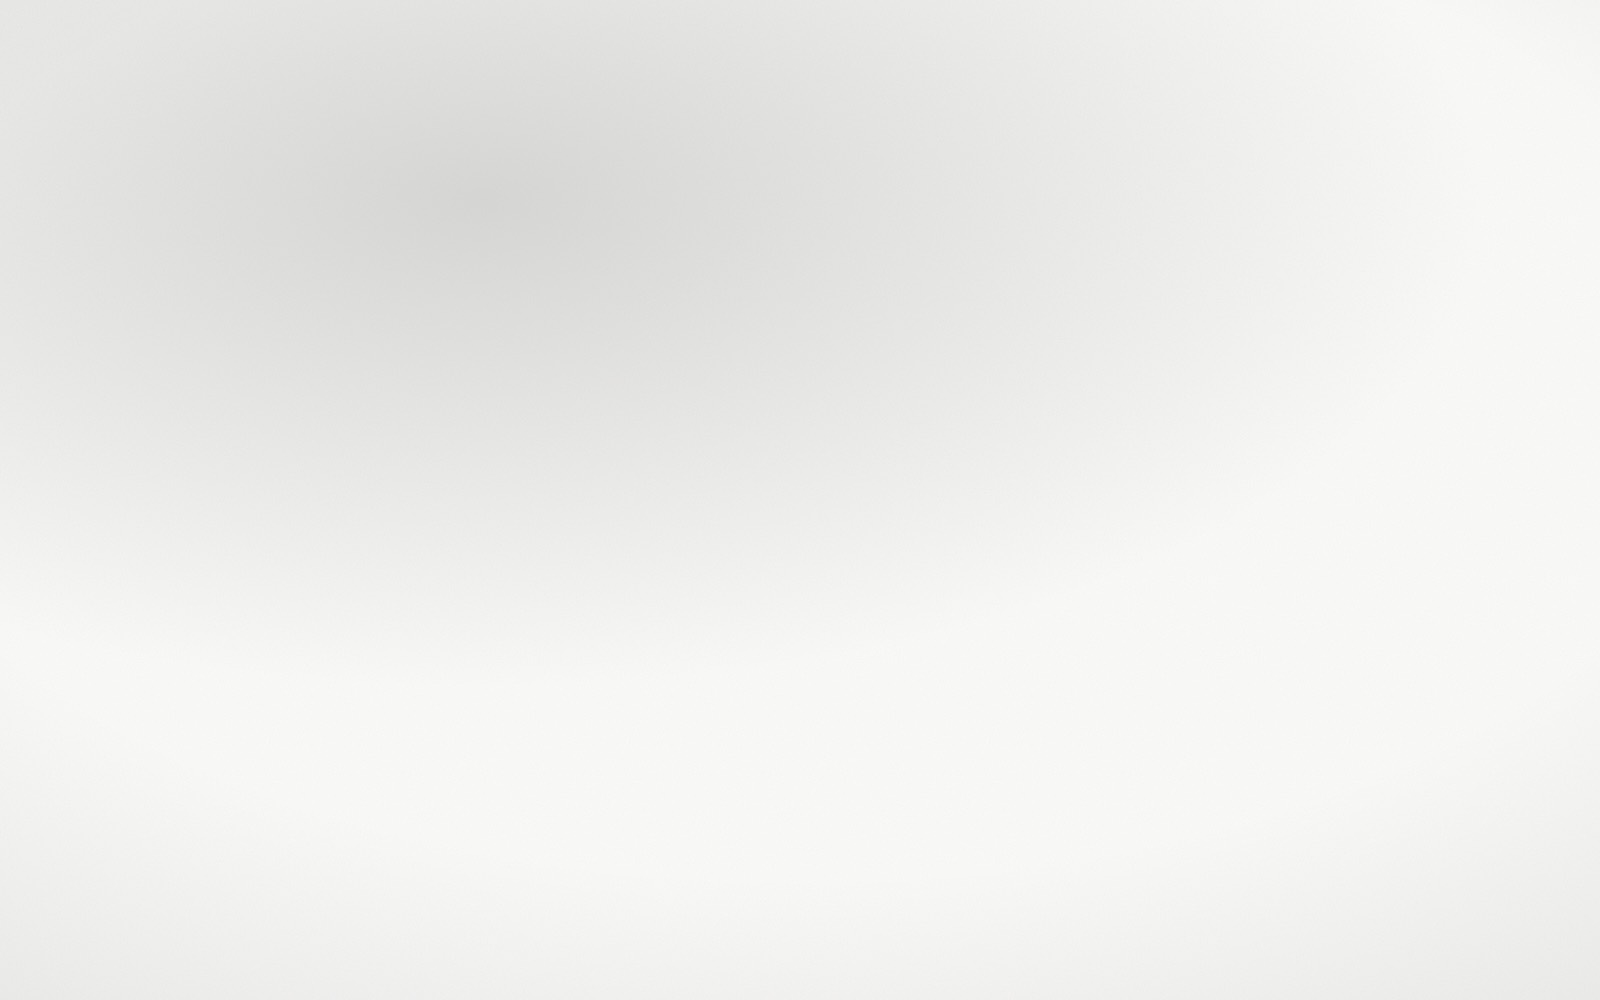
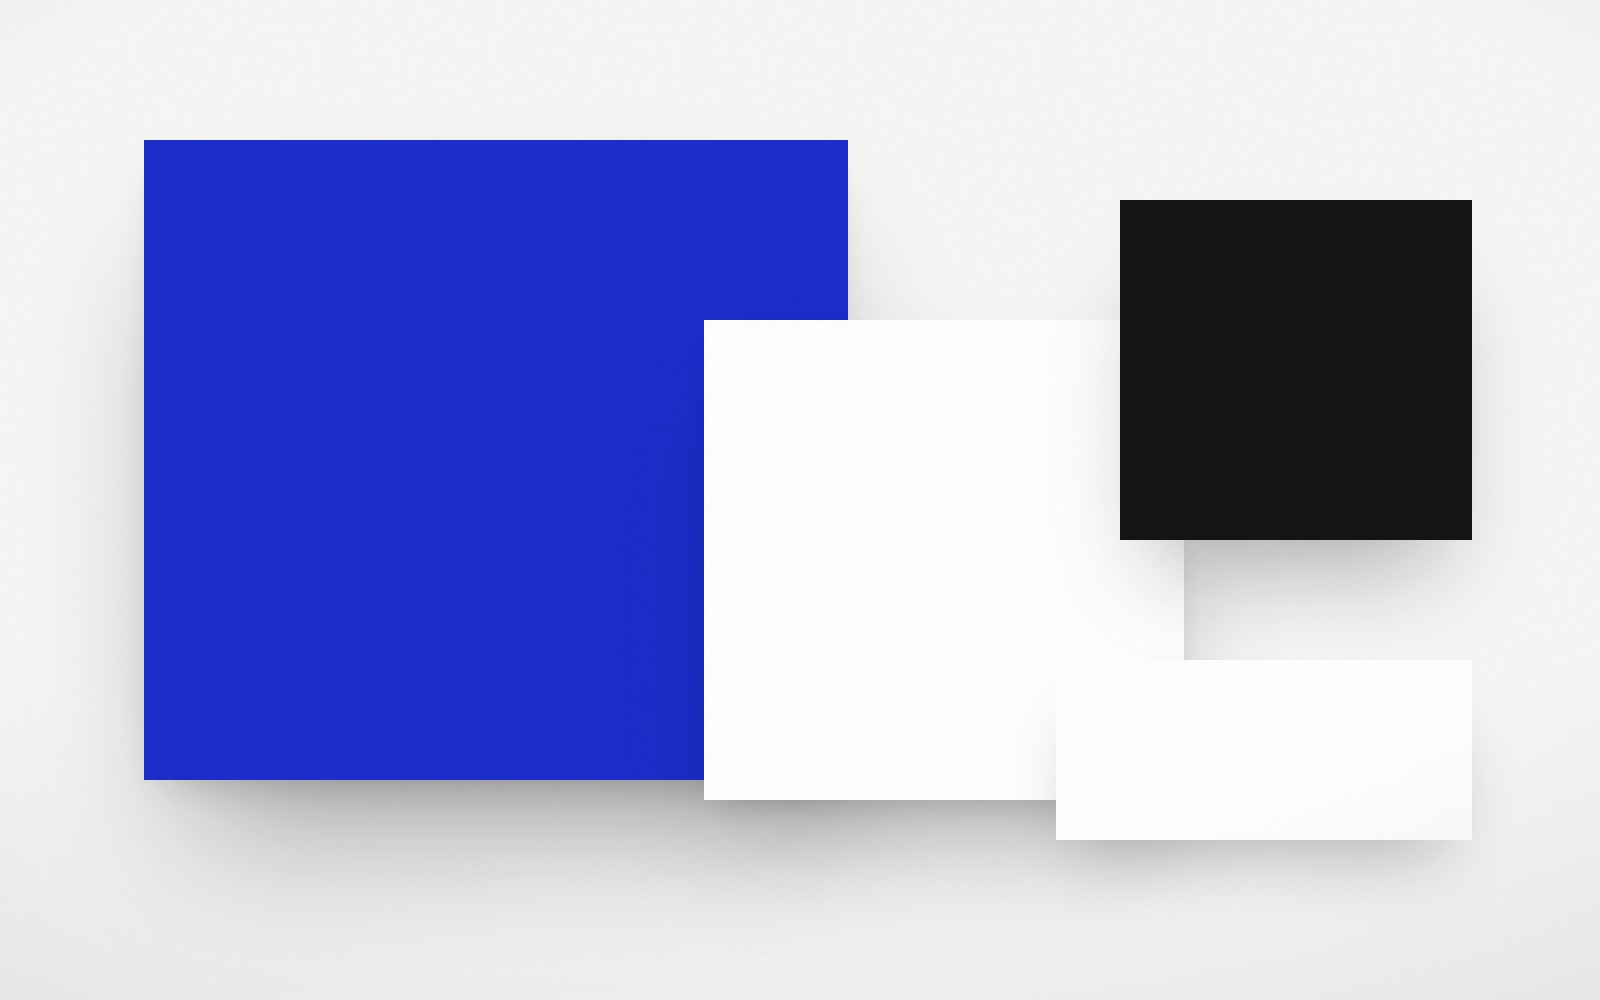
Direction C — long shadow
Near-white ground, deep ink blue, and a soft large real shadow as the
signature element: Work cards become white objects with weight rather
than regions divided by a rule, and they deepen on hover.

Instrument Serif for display, Inter for body, JetBrains Mono for
metadata. Instrument Serif ships a single weight, which keeps the
one-weight rule honest by construction.

The eyebrow label sits in a hairline pill; the ruled ornament is dropped.
Media scales 1.04 -> 1.0 on entry instead of rising.

diff --git a/app/globals.css b/app/globals.css
@@ -10,36 +10,37 @@
    direction-a/b/c replace the values, never the token names.
    ============================================================ */
 :root {
-  --paper: #FAFAF8;
-  --ink: #111110;
-  --accent: #3A3A37;
-  /* Text-safe cut of the accent. The accent proper is for rules, fills and
-     borders; anything that colors actual words uses this and has to clear
-     4.5:1 against --paper. B's acid green never colors text, so B points
-     this straight back at its ink. */
-  --accent-ink: #3A3A37;
+  /* Direction C — "Long shadow".
+     Near-white ground, deep ink blue, and a soft large real shadow as the
+     signature: cards and media get physical weight on the page. The known
+     risk is that a display serif is a strong flavour and will date faster
+     than A or B. */
+  --paper: #F7F7F5;
+  --ink: #141414;
+  --accent: #1B2ECC;
+  --accent-ink: #1B2ECC;      /* 8.6:1 on the paper — safe on text as well as rules */
 
-  /* Work cards sit on the ground by default. C gives them a surface. */
-  --card-bg: transparent;
-  --card-pad: 0px;
+  /* Cards are objects here, not regions of the ground. */
+  --card-bg: #FFFFFF;
+  --card-pad: clamp(24px, 4vw, 56px);
 
-  /* Faces come from next/font in app/fonts.ts. A fork swaps the
-     imports there and leaves these aliases alone. */
-  --font-display: var(--font-face-display), ui-sans-serif, system-ui, sans-serif;
+  /* Instrument Serif display, Inter body, JetBrains Mono metadata.
+     Registered in app/fonts.ts. */
+  --font-display: var(--font-face-display), ui-serif, Georgia, serif;
   --font-body: var(--font-face-body), ui-sans-serif, system-ui, sans-serif;
   --font-mono: var(--font-face-mono), ui-monospace, SFMono-Regular, monospace;
 
-  /* Hero still. Each fork ships its own bytes at this same path. */
   --hero-poster: url('/hero-poster.jpg');
-  /* All three stills are light-ground compositions, so the bar stays ink
-     over the hero. A direction that lands dark footage in Task B flips
-     this one value and gets the scrim with it. */
   --nav-over-hero: var(--ink);
   --hero-scrim: transparent;
 
-  /* Media weight. C deepens this; A and B keep it flat. */
-  --media-shadow: none;
-  --media-radius: 0px;
+  /* The signature element. Large, soft, and low-opacity — a real shadow,
+     not a glow and not a colored drop shadow. */
+  --media-shadow: 0 48px 90px -34px rgba(20, 20, 20, 0.28),
+    0 10px 24px -14px rgba(20, 20, 20, 0.14);
+  --media-shadow-deep: 0 70px 120px -36px rgba(20, 20, 20, 0.38),
+    0 16px 34px -16px rgba(20, 20, 20, 0.2);
+  --media-radius: 6px;
 }
 
 /* ============================================================
@@ -629,4 +630,82 @@ a:focus-visible > .arrow {
 
 .legal__body a {
   border-bottom: 1px solid var(--accent);
+}
+
+
+/* ---------- direction C: weight, and a serif that has to earn it ---------- */
+
+/* The serif runs large and open; Instrument Serif's own metrics are tight
+   at display size, so it gets a hair more room than the sans directions. */
+.display {
+  line-height: 1.05;
+}
+
+/* The eyebrow label sits in a small pill with a hairline border. That pill
+   is the whole ornament — the rule the other directions draw is dropped. */
+.eyebrow__ornament {
+  display: none;
+}
+
+.eyebrow__label {
+  display: inline-block;
+  padding: 7px 14px 6px;
+  border: 1px solid color-mix(in srgb, var(--ink) 22%, transparent);
+  border-radius: 999px;
+  line-height: 1;
+}
+
+/* Cards are objects on the ground, so they carry the shadow rather than a
+   dividing rule. */
+.work-card {
+  border-top: 0;
+  padding-block: var(--card-pad);
+  border-radius: var(--media-radius);
+}
+
+.work-card:hover {
+  box-shadow: var(--media-shadow-deep);
+}
+
+.work-card__quote {
+  border-left-color: var(--accent);
+}
+
+.services__peek {
+  box-shadow: var(--media-shadow-deep);
+}
+
+/* Media scales in rather than rising: 1.04 -> 1.0 as it enters. */
+@media (prefers-reduced-motion: no-preference) {
+  .reveal {
+    opacity: 0;
+    transform: scale(1.04);
+    transition: opacity 600ms ease, transform 700ms cubic-bezier(0.22, 1, 0.36, 1);
+  }
+
+  .reveal.is-in {
+    opacity: 1;
+    transform: none;
+  }
+}
+
+.services__word {
+  transition: color 220ms ease;
+}
+
+.work-card__link,
+.footer__email,
+.legal__body a {
+  border-bottom-color: color-mix(in srgb, var(--accent) 45%, transparent);
+}
+
+.work-card__link:hover,
+.footer__email:hover,
+.legal__body a:hover {
+  border-bottom-color: var(--accent);
+  color: var(--accent-ink);
+}
+
+.form__submit {
+  color: var(--accent-ink);
 }

diff --git a/app/fonts.ts b/app/fonts.ts
@@ -1,24 +1,22 @@
 /**
- * The direction's two-or-three faces, registered through next/font and
- * exposed as CSS variables only. Components never name a family — they
- * use --font-display / --font-body / --font-mono via Tailwind tokens.
+ * Direction C — "Long shadow". A high-contrast display serif against a
+ * neutral sans, with mono on the metadata. The serif is the
+ * differentiator: it reads editorial and design-literate, and it signals
+ * brand and copy as a real service line rather than an add-on.
  *
- * A direction fork rewrites this file and the token block in globals.css.
- * Nothing else.
- *
- * Shared base: Inter Tight for display and body, JetBrains Mono for the
- * small text. Neutral on purpose.
+ * Three faces, all at 400. Instrument Serif ships one weight, which keeps
+ * the one-weight rule honest by construction.
  */
-import { Inter_Tight, JetBrains_Mono } from 'next/font/google'
+import { Instrument_Serif, Inter, JetBrains_Mono } from 'next/font/google'
 
-const display = Inter_Tight({
+const serif = Instrument_Serif({
   subsets: ['latin'],
   weight: ['400'],
   variable: '--font-face-display',
   display: 'swap',
 })
 
-const body = Inter_Tight({
+const sans = Inter({
   subsets: ['latin'],
   weight: ['400'],
   variable: '--font-face-body',
@@ -32,4 +30,4 @@ const mono = JetBrains_Mono({
   display: 'swap',
 })
 
-export const fontClassName = `${display.variable} ${body.variable} ${mono.variable}`
+export const fontClassName = `${serif.variable} ${sans.variable} ${mono.variable}`
